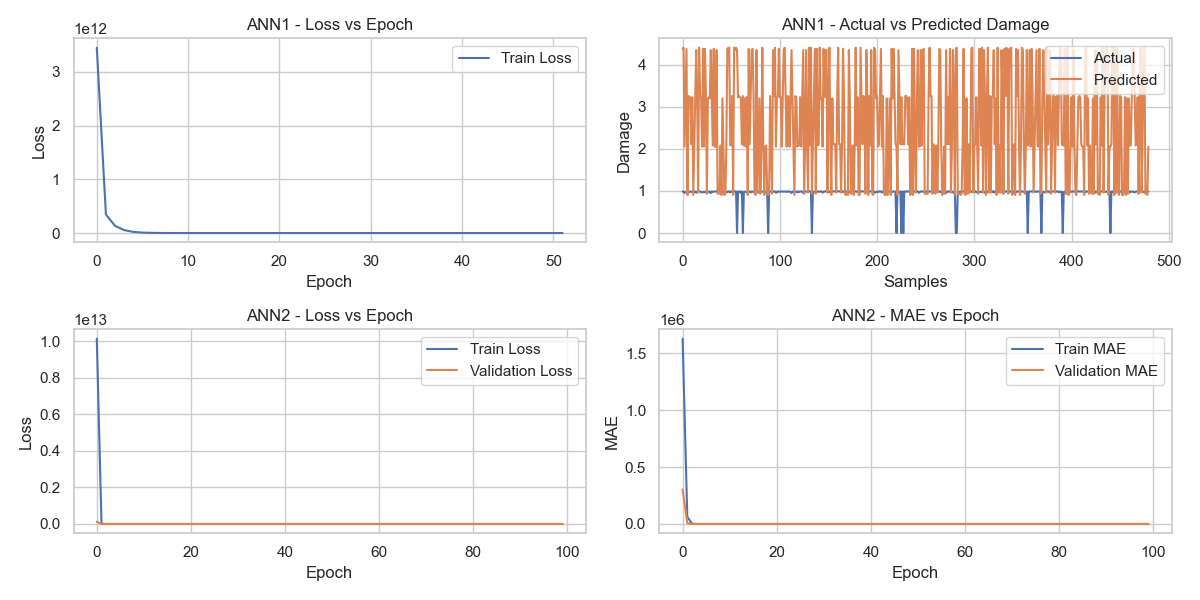
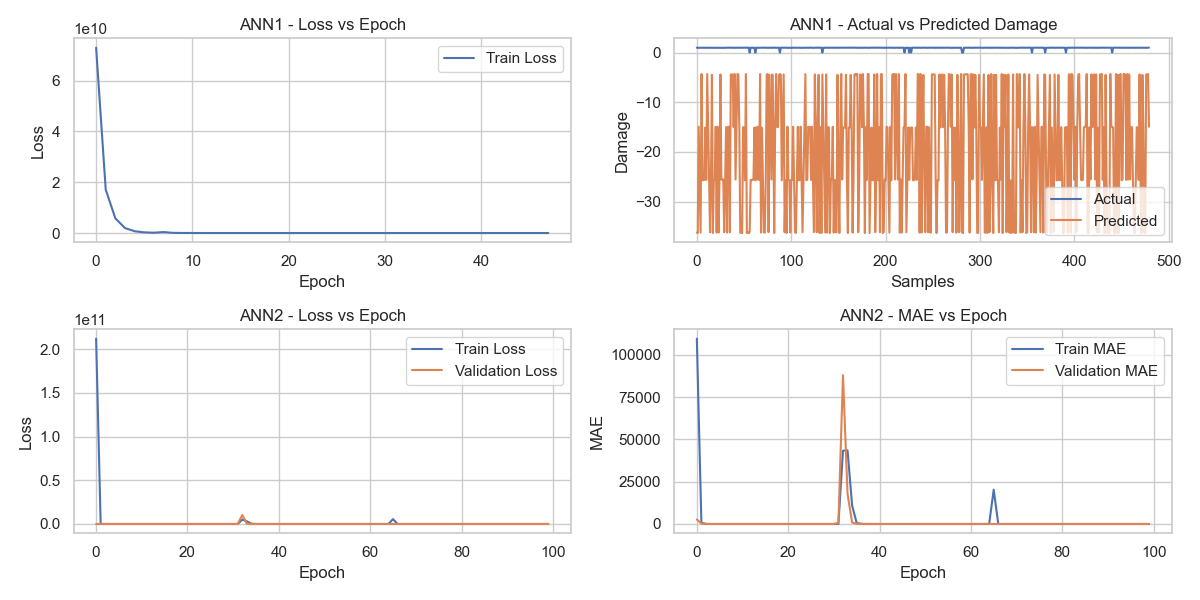
Implement Dataset Creation, Visualization, and ANN Models for Damage Analysis

diff --git a/main.py b/main.py
@@ -263,3 +263,49 @@ plt.title('ANN1 - Actual vs Predicted Damage')
 plt.tight_layout()
 plt.savefig('ANN_p.png',bbox_inches=None)
 plt.show()
+
+
+
+
+
+X = df[['sigma_max', 'delta_u', 'delta_max', 'alpha', 'delta']].values
+y = df['damage'].values.reshape(-1, 1)
+
+scaler = StandardScaler()
+X = scaler.fit_transform(X)
+
+X_train, X_test, y_train, y_test = train_test_split(X, y, test_size=0.2, random_state=42)
+
+model1 = MLPRegressor(hidden_layer_sizes=(100, 50, 25), activation='relu', solver='adam', learning_rate_init=0.001, max_iter=100, batch_size=32, random_state=42)
+
+model1.fit(X_train, y_train.ravel())
+
+train_loss1 = model1.loss_
+y_pred1 = model1.predict(X_test)
+test_loss1 = np.mean((y_test - y_pred1) ** 2)
+test_mae1 = np.mean(np.abs(y_test - y_pred1))
+
+print(f'ANN1 - Train Loss: {train_loss1}')
+print(f'ANN1 - Test Loss: {test_loss1}')
+print(f'ANN1 - Test MAE: {test_mae1}')
+
+plt.figure(figsize=(12, 6))
+
+plt.subplot(2, 1, 1)
+plt.plot(model1.loss_curve_, label='Train Loss')
+plt.xlabel('Epoch')
+plt.ylabel('Loss')
+plt.legend()
+plt.title('ANN1 - Loss vs Epoch')
+
+plt.subplot(2, 1, 2)
+plt.plot(y_test, label='Actual')
+plt.plot(y_pred1, label='Predicted')
+plt.xlabel('Samples')
+plt.ylabel('Damage')
+plt.legend()
+plt.title('ANN1 - Actual vs Predicted Damage')
+
+plt.tight_layout()
+plt.savefig('ANN_p2.png',bbox_inches=None)
+plt.show()
